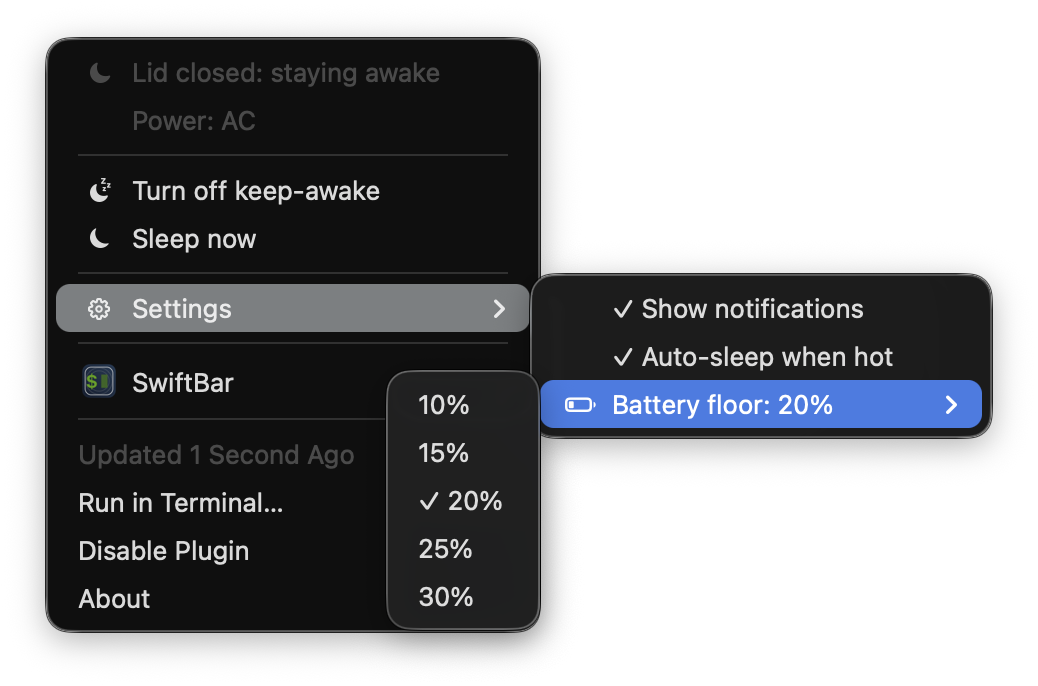
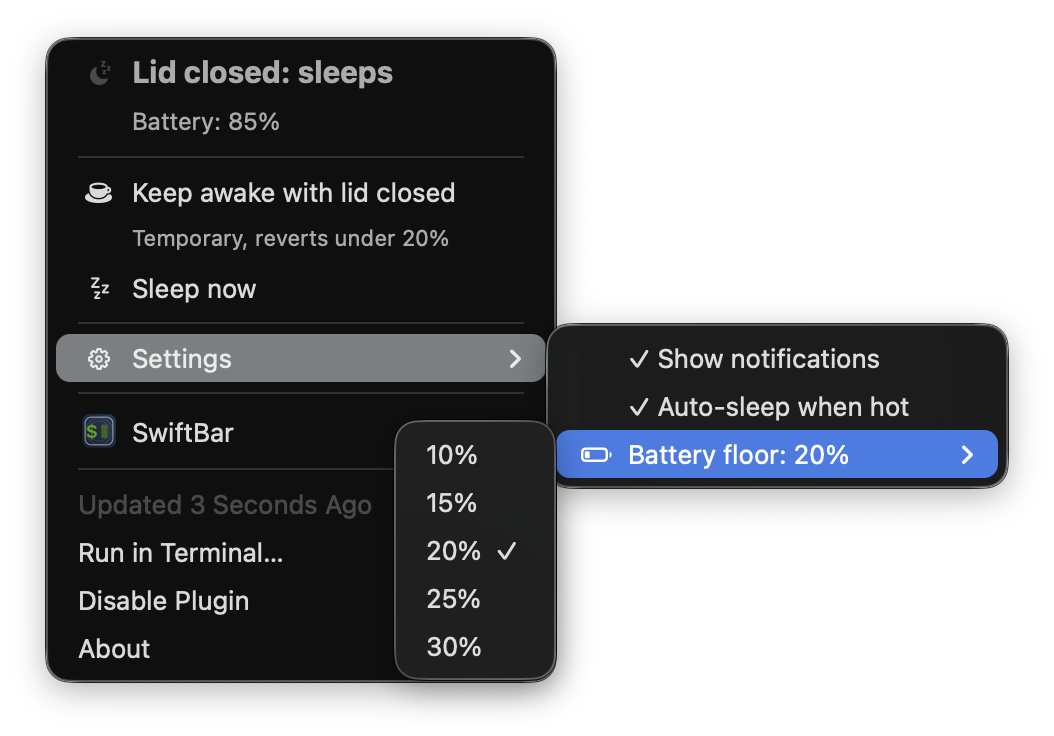
docs: current hero screenshot (sleeps state, coffee-cup action, settings + floor submenu); README language line covers de/fr/es, no single-language callout

diff --git a/README.md b/README.md
@@ -17,7 +17,7 @@ Most keep-awake apps just flip a switch and leave the rest to you. That is how a
 - **Any override ends on its own:** open the lid, unplug, go under 20%, or start overheating, and it reverts.
 - **Battery floor (default 20%):** won't arm an override within 5% of the floor, and drops it at the floor. If the machine hits serious thermal pressure on battery, it sleeps and tells you.
 
-Menu and alerts are in your Mac's language (English or Russian). You can mute the alerts from the menu. Native menu-bar icons, about 200 lines of bash, MIT.
+Menu and alerts follow your Mac's language (English, German, French, Spanish). You can mute the alerts from the menu. Native menu-bar icons, about 200 lines of bash, MIT.
 
 
 Menu and notifications follow your Mac's language: English, German, French, and Spanish, with English as the fallback. You can mute notifications from the menu; everything keeps working silently.
